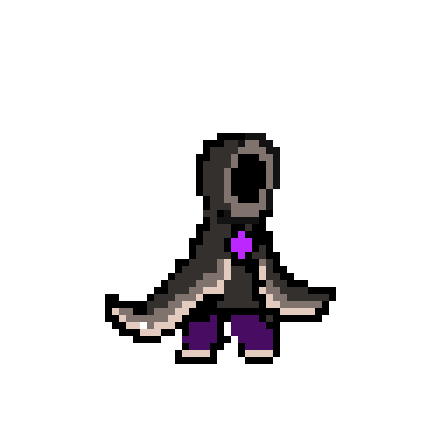
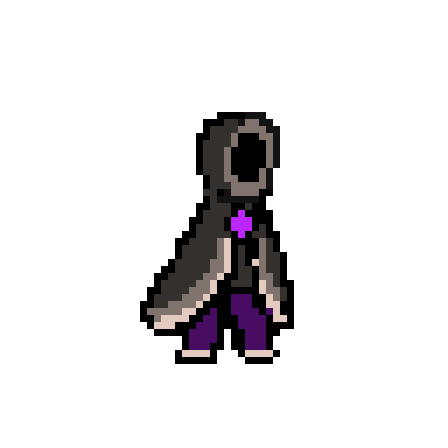
Changed sprites, minor physics tweaks
Added high-res sprites, upwards movement now gets cancelled on hurt, gravity tuned, level changed.

Changed region(s): [[0.2188, 0.25, 0.75, 0.7812]]

diff --git a/Rogue Run/Assets/Scripts/playerAttack.cs b/Rogue Run/Assets/Scripts/playerAttack.cs
@@ -6,11 +6,14 @@ using UnityEngine;
 public class playerAttack : MonoBehaviour
 {
     
-    public int AD = 10;
-    private Vector2 _knockBack = Vector2.zero;  
+    public int AD = 100;
+    private Vector2 _knockBack = Vector2.zero;  //no knockback from the player
+    
     [SerializeField]
     public Animator playerAnim;
 
+    
+    //if dashes into enemy
     private void OnTriggerEnter2D(Collider2D collision)
     {
         //check if can hit
@@ -23,6 +26,7 @@ public class playerAttack : MonoBehaviour
         }
     }
     
+    //if starts from enemy. Invincible takes care of multiple damage.
     private void OnTriggerExit2D(Collider2D collision)
     {
         //check if can hit

diff --git a/Rogue Run/Assets/Scripts/Damageable.cs b/Rogue Run/Assets/Scripts/Damageable.cs
@@ -29,6 +29,7 @@ public class Damageable : MonoBehaviour
         }
         private set
         {
+            //sometimes dies in the middle of setting.
             if (IsAlive)
             {
                 _animator.SetBool(AnimationStrings.isHit, value);
@@ -94,6 +95,7 @@ public class Damageable : MonoBehaviour
     // Update is called once per frame
     void Update()
     {
+        //if is invincible, check to remove the status
         if (_isInvincible)
         {
             if (_timeSinceHit > _invincibilityTime)

diff --git a/Rogue Run/Assets/Scripts/PlayerController.cs b/Rogue Run/Assets/Scripts/PlayerController.cs
@@ -275,7 +275,7 @@ public class PlayerController : MonoBehaviour
     public void OnHit(int damage, Vector2 knockback)
     {
         //add the knockback
-        _rb.velocity = new Vector2(knockback.x, _rb.velocity.y + knockback.y); 
+        _rb.velocity = new Vector2(knockback.x, _rb.velocity.y * 0.2f + knockback.y); 
     }
    
 
